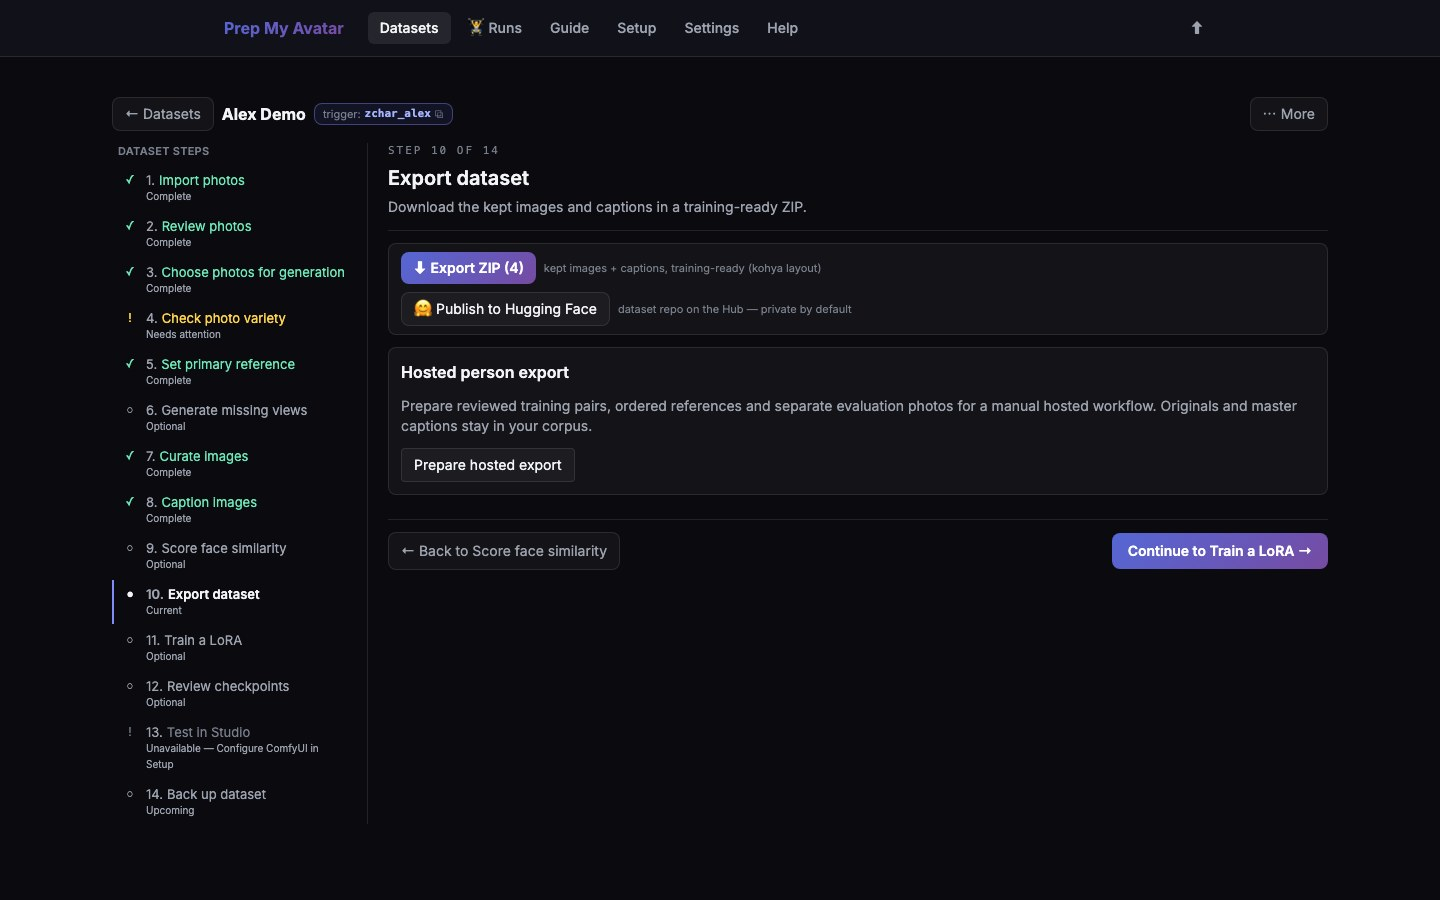
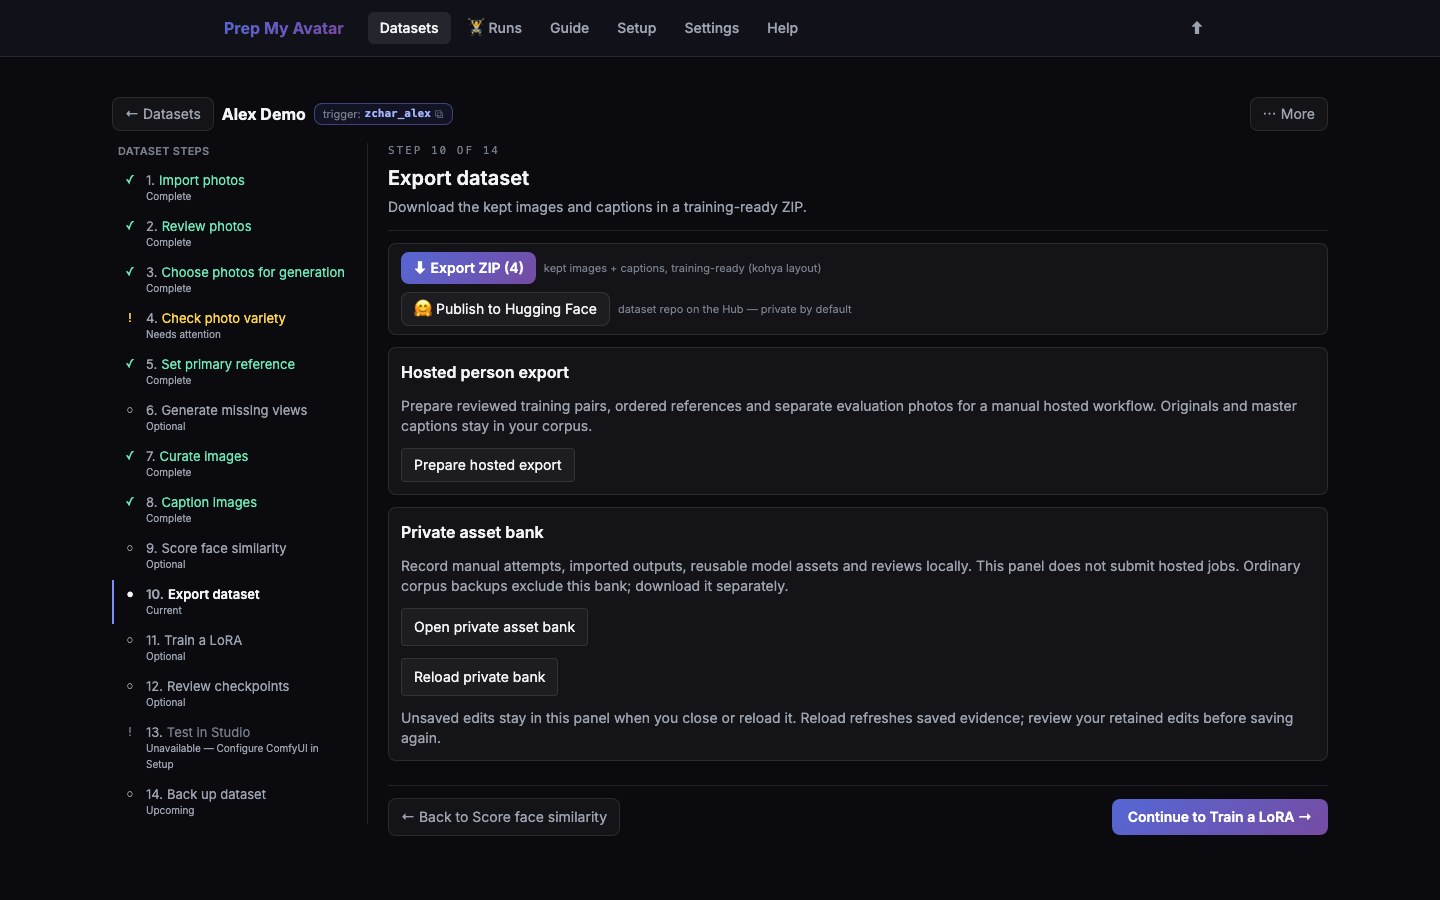
Record private asset bank browser evidence

diff --git a/frontend/e2e/pilot-bank.spec.js b/frontend/e2e/pilot-bank.spec.js
@@ -191,7 +191,7 @@ test("real offline bank retains imported still review, first frame and downloada
       .getByText("Import returned local file", { exact: true })
       .click();
   await assetAttempt
-    .getByLabel("File kind", { exact: true })
+    .getByRole("combobox", { name: "File kind", exact: true })
     .selectOption("weights");
   await assetAttempt.getByLabel("Returned file").setInputFiles({
     name: "synthetic_weights.safetensors",

diff --git a/docs/specs/2026-10-01-avatar-models-and-reference-assets-research.md b/docs/specs/2026-10-01-avatar-models-and-reference-assets-research.md
@@ -1,6 +1,6 @@
 # Avatar models and reusable reference assets
 
-- **Status:** Offline export implemented and locally verified; still-image and silent-video pilots await execution inputs
+- **Status:** Offline export and private asset-bank development implemented; local validation is recorded in the delivery pull requests. Still-image and silent-video pilots await execution inputs
 - **Date / sources checked:** 2026-10-01
 - **Scope:** Krea 2, Qwen Image 2.1, Fizgig and its training adapter, MiniMax H3 and RefMods, Ideogram 4.5
 - **Verification:** Documentation reviewed; no models downloaded, training performed or generation quality independently measured
